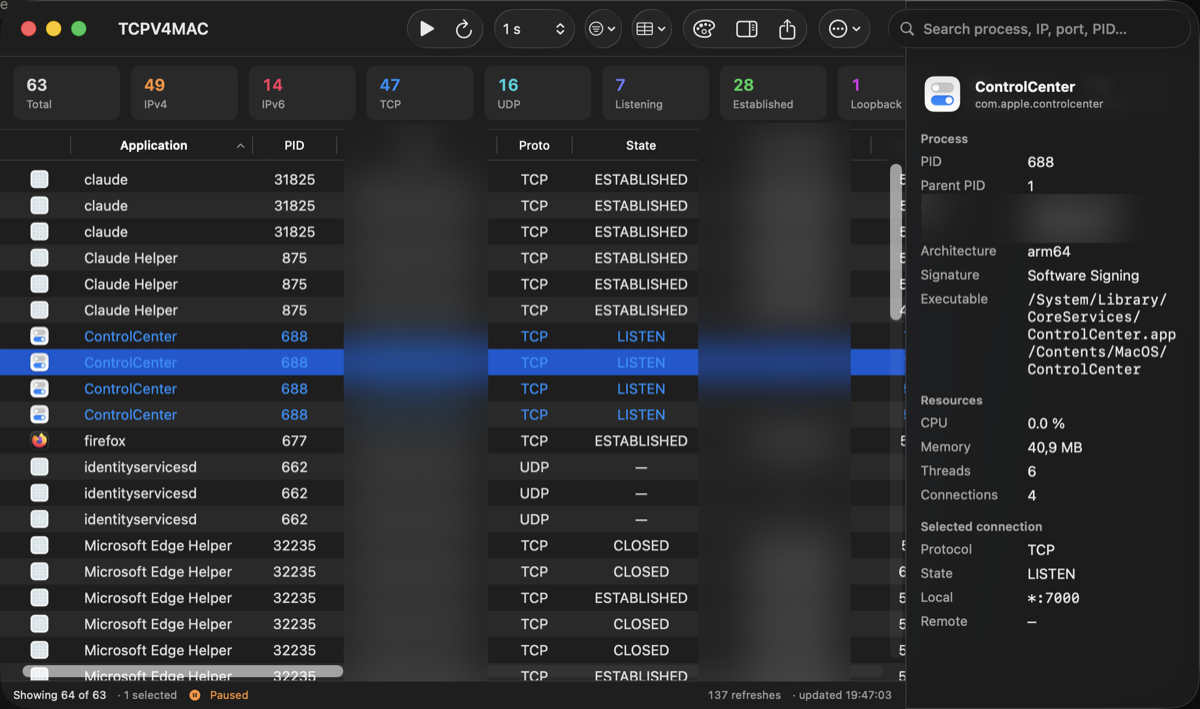
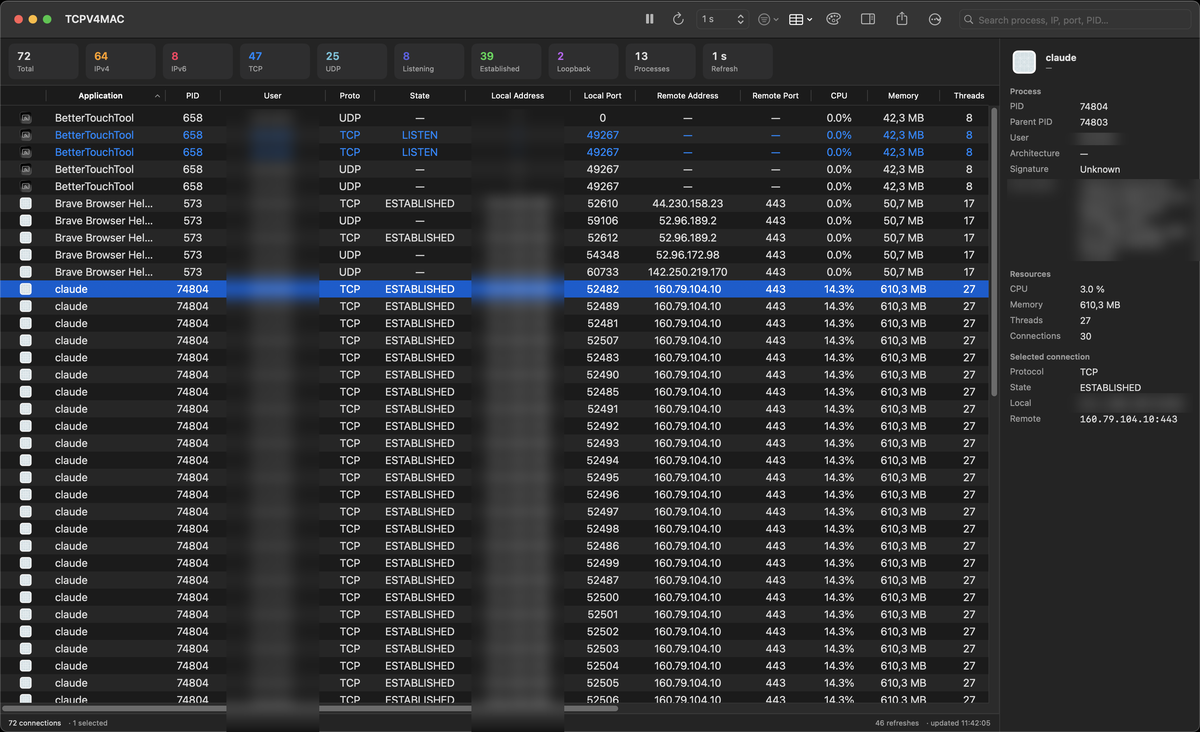
docs: document Intel Mac support and refresh inspector screenshot

diff --git a/README.md b/README.md
@@ -8,9 +8,11 @@ Apple-native technologies.
 > Original work. **Not affiliated with, endorsed by, or derived from** Microsoft
 > or Sysinternals — only inspired by the idea. See [Credits](#credits--inspiration).
 
-> Built and tested on **macOS 26 (Tahoe), Apple Silicon (M-series)**. Minimum
-> deployment target: **macOS 26 (Tahoe)** — the app targets the latest macOS.
-> (The `TCPV4MACCore` engine package itself stays broadly portable.)
+> Compatible with **Intel-based Macs (x86_64)**, as well as Apple Silicon
+> (arm64) — built and tested as a universal binary. Minimum deployment
+> target: **macOS 13 (Ventura)**, chosen specifically so the app keeps
+> running on Intel Macs. (The `TCPV4MACCore` engine package stays broadly
+> portable.)
 
 ## Screenshots
 